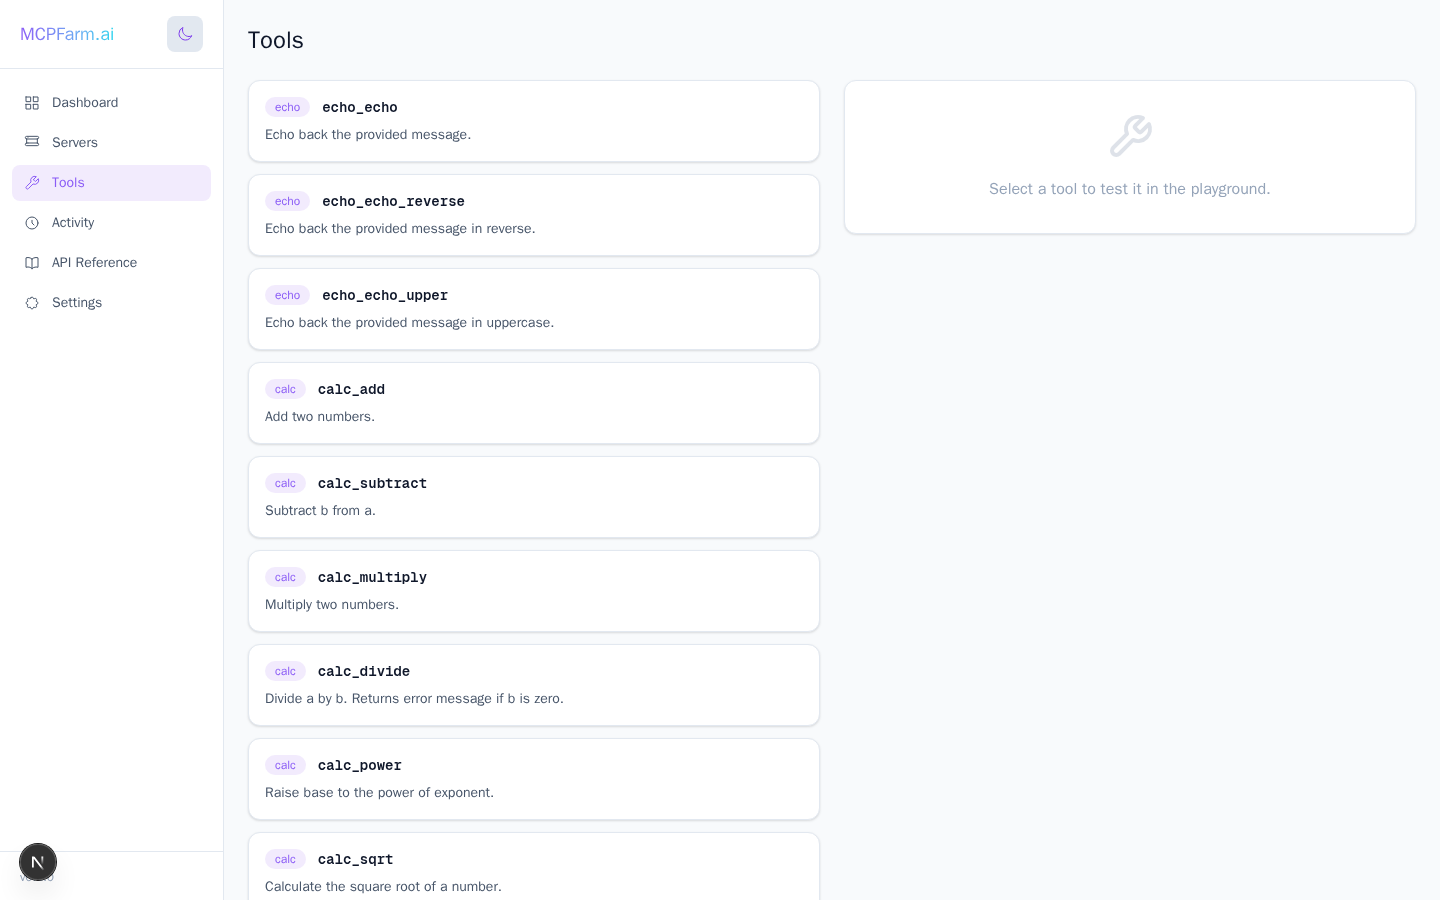
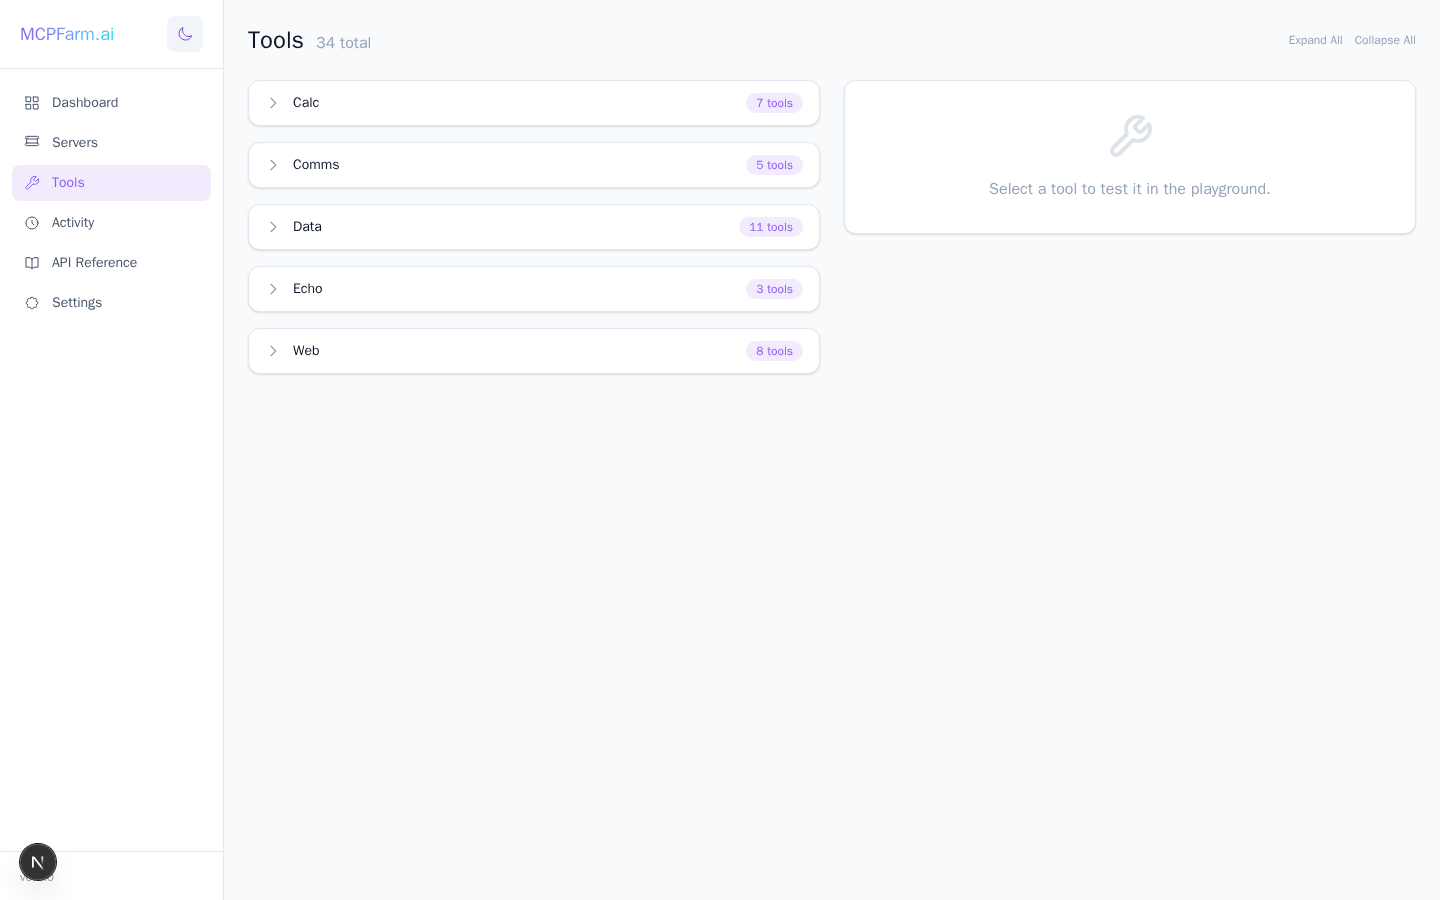
Update README and screenshots for 5-server, 34-tool farm
- Fresh screenshots showing accordion grouping, playground with live web search results, copy button
- Updated architecture diagram to include Data Science and Communications servers
- Updated server table (3 → 5 servers, 18 → 34 tools)
- Added data_science/ and communications/ to project structure
- Added Gmail/WhatsApp credential env vars to configuration table

diff --git a/README.md b/README.md
@@ -51,7 +51,7 @@ Add, remove, start, and stop MCP servers without restarting the gateway. Each se
 
 ### Unified Tool Registry
 
-Every tool from every server is namespaced and discoverable through a single API. Browse all 18+ tools, see their schemas, and test them directly in the built-in playground.
+Every tool from every server is namespaced and discoverable through a single API. Browse all 34 tools across 5 servers, see their schemas, and test them directly in the built-in playground with live results and copy-to-clipboard.
 
 <picture>
   <source media="(prefers-color-scheme: dark)" srcset="docs/images/tools-playground-dark.png">
@@ -82,27 +82,27 @@ Built-in interactive API documentation covering every endpoint, the MCP protocol
 ## Architecture
 
 ```
-                    ┌─────────────────────────────────────────────┐
-                    │              MCPFarm Gateway                 │
-  Agents ──────────▶│                                             │
-  (LangGraph,       │  ┌─────────┐  ┌──────────┐  ┌───────────┐ │
-   CrewAI,          │  │ REST API│  │MCP Bridge│  │ WebSocket │ │
-   AutoGen, ...)    │  └────┬────┘  └────┬─────┘  └─────┬─────┘ │
-                    │       │            │               │       │
-                    │  ┌────▼────────────▼───────────────▼─────┐ │
-                    │  │        Tool Registry & Router          │ │
-                    │  └────┬────────────┬───────────────┬─────┘ │
-                    │       │            │               │       │
-                    └───────┼────────────┼───────────────┼───────┘
-                            │            │               │
-               ┌────────────┘     ┌──────┘        ┌──────┘
-               ▼                  ▼               ▼
-        ┌─────────────┐   ┌─────────────┐  ┌─────────────┐
-        │ Echo Server │   │  Calculator │  │ Web Search  │
-        │  (FastMCP)  │   │  (FastMCP)  │  │  (FastMCP)  │
-        │  3 tools    │   │  7 tools    │  │  8 tools    │
-        └─────────────┘   └─────────────┘  └─────────────┘
-             Docker             Docker           Docker
+                    ┌──────────────────────────────────────────────────┐
+                    │                MCPFarm Gateway                    │
+  Agents ──────────▶│                                                  │
+  (LangGraph,       │  ┌──────────┐  ┌───────────┐  ┌──────────────┐ │
+   CrewAI,          │  │ REST API │  │ MCP Bridge│  │  WebSocket   │ │
+   AutoGen, ...)    │  └────┬─────┘  └─────┬─────┘  └──────┬───────┘ │
+                    │       │              │                │         │
+                    │  ┌────▼──────────────▼────────────────▼───────┐ │
+                    │  │          Tool Registry & Router             │ │
+                    │  └──┬─────────┬──────────┬──────────┬────┬───┘ │
+                    │     │         │          │          │    │     │
+                    └─────┼─────────┼──────────┼──────────┼────┼─────┘
+                          │         │          │          │    │
+          ┌───────────────┘    ┌────┘    ┌─────┘    ┌─────┘   └──────┐
+          ▼                    ▼         ▼          ▼                ▼
+   ┌────────────┐  ┌────────────┐  ┌──────────┐  ┌──────────┐  ┌──────────┐
+   │   Echo     │  │ Calculator │  │Web Search│  │  Data    │  │  Comms   │
+   │ (FastMCP)  │  │ (FastMCP)  │  │(FastMCP) │  │ Science  │  │(FastMCP) │
+   │  3 tools   │  │  7 tools   │  │ 8 tools  │  │ 11 tools │  │ 5 tools  │
+   └────────────┘  └────────────┘  └──────────┘  └──────────┘  └──────────┘
+      Docker          Docker          Docker         Docker        Docker
 ```
 
 **Key design principles:**
@@ -180,13 +180,15 @@ tools = await client.create_tools()  # Returns List[StructuredTool]
 
 ## Included MCP Servers
 
-MCPFarm ships with three servers to get you started:
+MCPFarm ships with five servers and **34 tools** to get you started:
 
 | Server | Namespace | Tools | Description |
 |--------|-----------|-------|-------------|
 | **Echo** | `echo` | 3 | Echo, reverse, and uppercase — great for testing |
 | **Calculator** | `calc` | 7 | Add, subtract, multiply, divide, power, sqrt, modulo |
-| **Web Search** | `web` | 8 | Tavily-powered search, news, crawl, extract (requires API key) |
+| **Web Search** | `web` | 8 | Tavily-powered search, news, site search, crawl, extract, URL mapping |
+| **Data Science** | `data` | 11 | NumPy/Pandas statistics, correlations, distributions, CSV analysis |
+| **Communications** | `comms` | 5 | Gmail send/read/search, WhatsApp messaging (requires credentials) |
 
 ### Adding Your Own Server
 
@@ -311,7 +313,9 @@ mcpfarm.ai/
 ├── servers/                    # MCP server implementations
 │   ├── echo/                   # Echo server (3 tools)
 │   ├── calculator/             # Calculator server (7 tools)
-│   └── web_search/             # Tavily web search server (8 tools)
+│   ├── web_search/             # Tavily web search server (8 tools)
+│   ├── data_science/           # NumPy/Pandas data science server (11 tools)
+│   └── communications/         # Gmail & WhatsApp server (5 tools)
 ├── examples/                   # Agent demos (LangGraph)
 ├── infra/                      # Prometheus, Grafana configs
 ├── scripts/                    # Management scripts (start, stop, restart)
@@ -341,6 +345,9 @@ Key environment variables (see `.env.example` for all):
 | `GATEWAY_LOG_FORMAT` | `console` | Log format (console, json) |
 | `ENABLE_METRICS` | `true` | Enable Prometheus metrics |
 | `TAVILY_API_KEY` | — | Tavily API key for web search server |
+| `GMAIL_ADDRESS` | — | Gmail address for communications server |
+| `GMAIL_APP_PASSWORD` | — | Gmail app password for communications server |
+| `WHATSAPP_TOKEN` | — | WhatsApp API token for communications server |
 | `DATABASE_URL` | (auto) | PostgreSQL connection string |
 | `REDIS_URL` | (auto) | Redis connection string |
 
